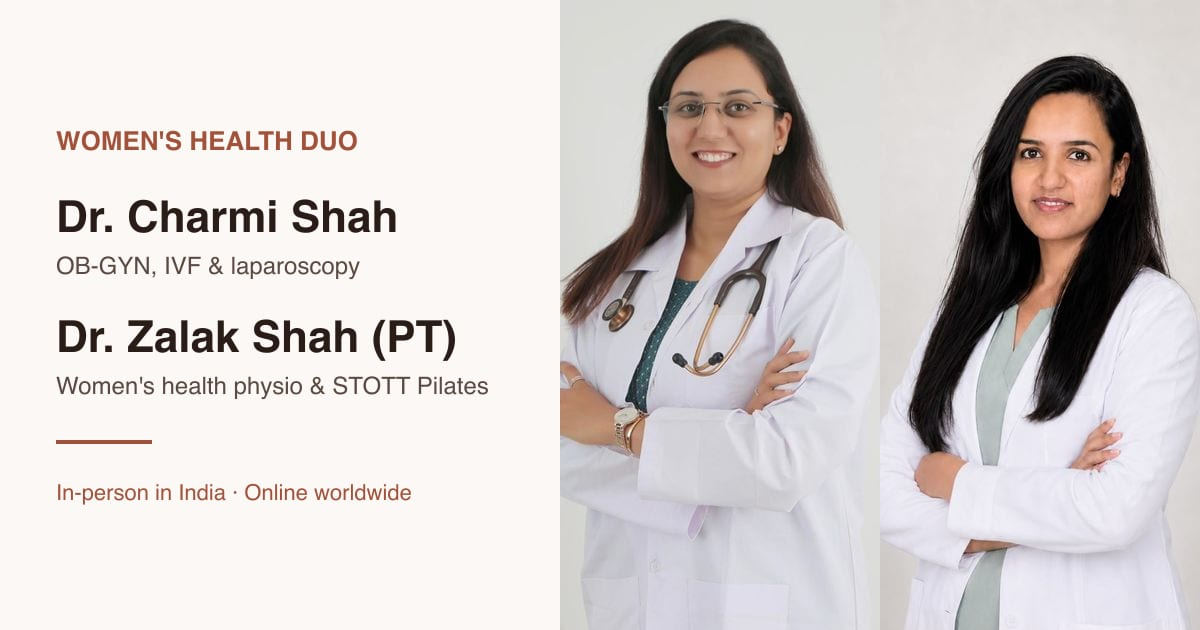
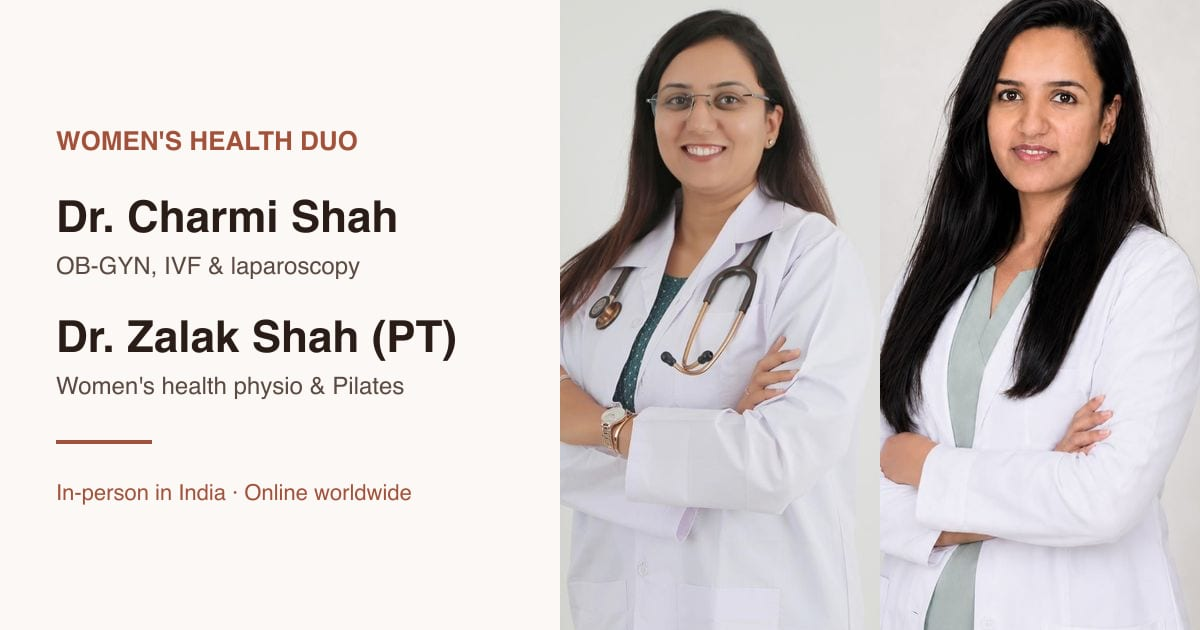
Align both doctors' heads on the share image

diff --git a/src/config/site.defaults.ts b/src/config/site.defaults.ts
@@ -133,4 +133,4 @@ export const OG_IMAGE_PATH = "/images/og-womens-health-duo.jpg";
 
 /** Default `og:image:alt` / `twitter:image:alt` when a page does not supply a specific poster. */
 export const DEFAULT_OG_IMAGE_ALT =
-  "Dr. Charmi Shah (OB-GYN, IVF) and Dr. Zalak Shah (PT, women's health physio and STOTT Pilates) of Women's Health Duo";
+  "Dr. Charmi Shah (OB-GYN, IVF) and Dr. Zalak Shah (PT, women's health physio and Pilates) of Women's Health Duo";
